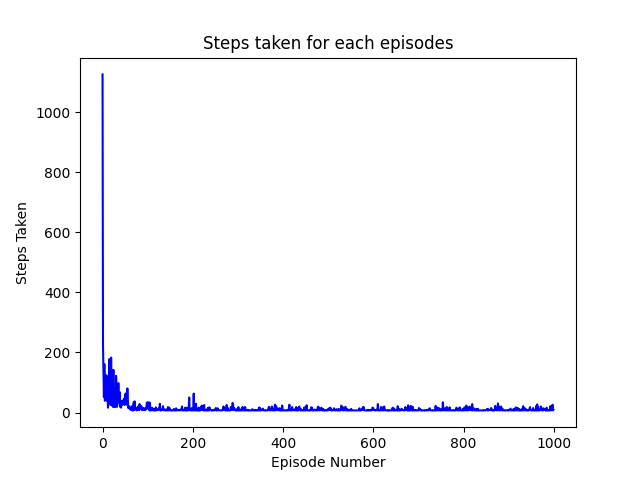
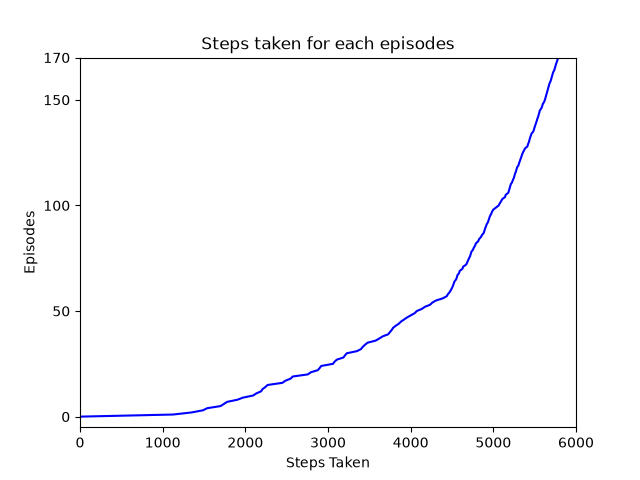
Fixed graphs and pygame

diff --git a/temporal_difference/windy_gridworld/Windy_gridworld.py b/temporal_difference/windy_gridworld/Windy_gridworld.py
@@ -21,10 +21,12 @@ def TD_Sarsa(
     alpha=0.5,  # delta learning-rate
     gamma=1,  # Next state-action pair weighing/ discounting-factor
     epsilon=0.1,  # greedy-epsilon policy
+    render=None,
 ):
     np.random.seed(seed)
     random.seed(seed)
 
+    env.render_mode = render
     n_states_x = env.x_size
     n_states_y = env.y_size
     n_actions = env.action_space.n
@@ -32,7 +34,8 @@ def TD_Sarsa(
 
     # For reward tracking
     episodes_dict = defaultdict(int)
-    episode_num = 0
+    episodes_dict["0"] = 0
+    episode_num = 1
 
     for episode in range(episodes):
         state, info = env.reset(seed=seed + episode)
@@ -66,7 +69,11 @@ def TD_Sarsa(
 
             state = next_state
             episodes_dict[episode_num] += 1
+            if episode > 0:
+                env.render()
         episode_num += 1
+        
+
     return episodes_dict
 
 
@@ -91,21 +98,23 @@ def main():
         env_wrapped = gym.make("gymnasium_env/WindyGridWorld-v0")
         env = env_wrapped.unwrapped
         results = TD_Sarsa(
-            env, episodes=episodes, seed=seed, alpha=alpha, gamma=gamma, epsilon=epsilon
+            env, episodes=episodes, seed=seed, alpha=alpha, gamma=gamma, epsilon=epsilon, render="human"
         )
         results_list.append(results)
         # Extract keys and values
-        x = list(results.keys())
-        y = list(results.values())
-        # y_cumsum = np.cumsum(y)
+        y = list(results.keys())
+        x = list(results.values())
+        x_cumsum = np.cumsum(x)
 
         plt.figure()
-        plt.plot(x, y, "b-")
-        plt.xlabel("Episode Number")
-        plt.ylabel("Steps Taken")
+        plt.plot(x_cumsum, y, "b-")
+        plt.xlabel("Steps Taken")
+        plt.ylabel("Episodes")
+        plt.xlim(0, round(x_cumsum[170],-3))
+        plt.ylim(-5, 170)
+        plt.yticks([0,50,100,150,170])
         plt.title("Steps taken for each episodes")
         plt.savefig(f"run_{i:04d}.png")
-        # plt.show()
 
         # pprint.pprint(results, indent=4, width=60, sort_dicts=True)
     # print(f"all runs completed, all results:{results_list}")

diff --git a/temporal_difference/windy_gridworld/windy-gridworld-gym/gymnasium_env/envs/windy_gridworld.py b/temporal_difference/windy_gridworld/windy-gridworld-gym/gymnasium_env/envs/windy_gridworld.py
@@ -18,7 +18,7 @@ class Action(Enum):
 
 
 class WindyGridWorld(gym.Env):
-    metadata = {"render_modes": ["human", "rgb_array"], "render_fps": 4}
+    metadata = {"render_modes": ["human", "rgb_array"], "render_fps": 60}
 
     def __init__(self, render_mode=None, x_size=10, y_size=7):
         self.x_size = x_size
@@ -129,7 +129,7 @@ class WindyGridWorld(gym.Env):
         return obv, reward, terminated, False, info
 
     def render(self):
-        if self.render_mode == "rgb_array":
+        if self.render_mode == "rgb_array" or "human":
             return self._render_frame()
 
     def _render_frame(self):
